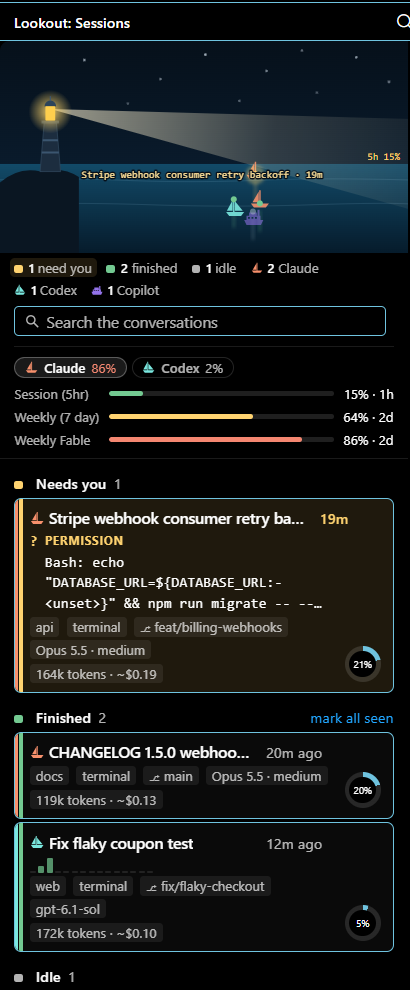
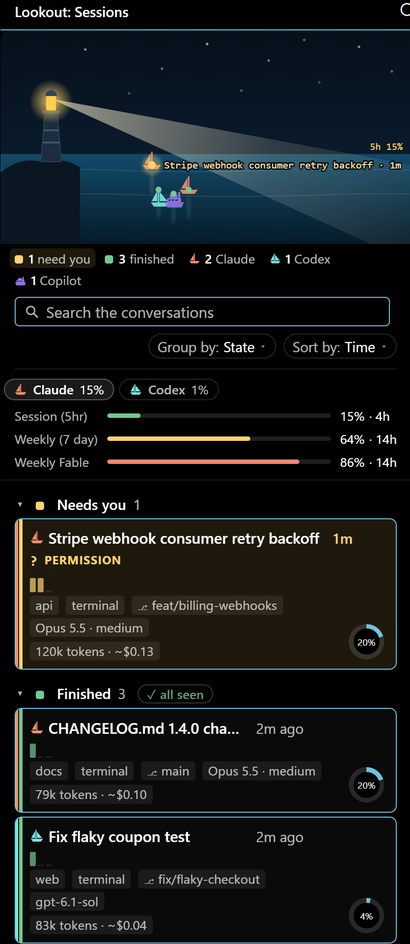
chore: release 0.1.2 (#101)
The version goes to 0.1.2. Its changelog section, which the release
workflow publishes as the GitHub Release's notes and both registries
show as the changelog, gets a summary line: a search that is ready as
soon as a window opens and never holds up VS Code, and group and sort
menus that fit the board.

The README's picture of VS Code with the board, and the features page's
board, are shot again in a development host with live Claude Code,
Codex and Copilot sessions, so they show the board as it is now: the
Group by and Sort by chips, the usage in columns, and Finished's
"all seen" chip. The Claude limits in them are staged in the demo's own
usage cache, one in each colour band (15%, 64%, 86%), as the last
pictures happened to show.

Changed region(s): [[0.0, 0.0, 1.0, 1.0]]

diff --git a/README.md b/README.md
@@ -23,7 +23,7 @@
 </p>
 
 <p align="center">
-  <img src="media/readme/window.png" width="100%" alt="VS Code with the Lookout board in the side bar: the harbour with one boat per session, the legend, each agent's usage limits, and the cards, one Claude session waiting on a permission, two finished; the terminal below shows the prompt it waits on">
+  <img src="media/readme/window.png" width="100%" alt="VS Code with the Lookout board in the side bar: the harbour with one boat per session, the legend, the search box with its Group by and Sort by chips, each agent's usage limits, and the cards: one Claude session waiting on a permission, and a Claude, a Codex and a Copilot session finished; the terminal below shows the prompt it waits on">
 </p>
 
 Running several AI coding agents at once means clicking through tabs and terminals to find out which one finished and which one is stuck on a question. Lookout keeps that answer on one board in the side bar, takes you to the right tab or terminal with one keystroke, and finds any conversation, running or not, by a word you remember from it. Claude Code in its VS Code panel or a terminal, Codex in its extension's panel, VS Code's Chat or a terminal, Copilot in VS Code's Chat or a terminal: one board, one jump key, one search, each agent with its own colour and boat once more than one is on the board. It reads only what the agents already write on disk.

diff --git a/CHANGELOG.md b/CHANGELOG.md
@@ -2,6 +2,8 @@
 
 ## 0.1.2
 
+A search that is ready as soon as a window opens and never holds up VS Code, and group and sort menus that fit the board.
+
 - **A quicker search.** Each conversation is read once and kept when its session ends or is resumed, instead of being read again whole. The lines that can hold no message and no path, most of a transcript (request records, tool output, attachments, replies that only think or run a command), are skipped without being decoded, so a long history is read in about half the time. Each message is lowercased once rather than on every search, and a search starts 100 ms after the last keystroke instead of 250 ms.
 - **Search never holds up VS Code.** Lookout reads the conversations in a thread of its own, starting a few seconds after the window opens, so the first search finds them read, and VS Code's extension host, which Claude Code and every other extension in the window share, never waits on a large transcript. While some are still being read, their matches come in as each one is.
 - **A new window searches at once.** Lookout keeps where each conversation's words sit in its file, never what they say, so a new window or a reload reads only those lines and what was added since: a third of a second for a history that takes four to read whole.

diff --git a/docs/features.md b/docs/features.md
@@ -70,7 +70,7 @@ Every part of Lookout, in full: the board and its cards, favourites, the Earlier
 </table>
 
 <p align="center">
-  <img src="../media/readme/board.png" width="380" alt="The board in the dark theme: harbour, legend, usage, and the cards grouped by state">
+  <img src="../media/readme/board.png" width="380" alt="The board in the dark theme: harbour, legend, the search box with its Group by and Sort by chips, usage, and the cards grouped by state">
   <img src="../media/readme/board-light.png" width="380" alt="The same board in the light theme">
 </p>
 
